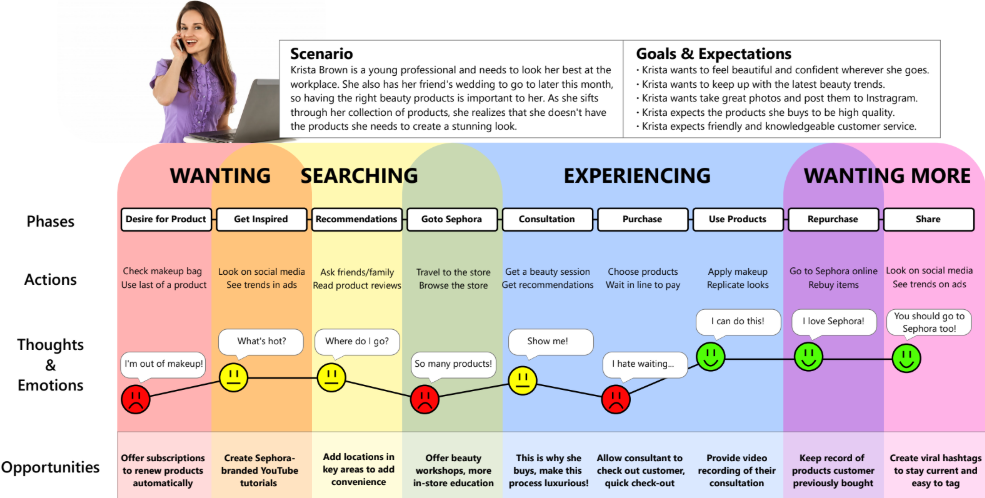
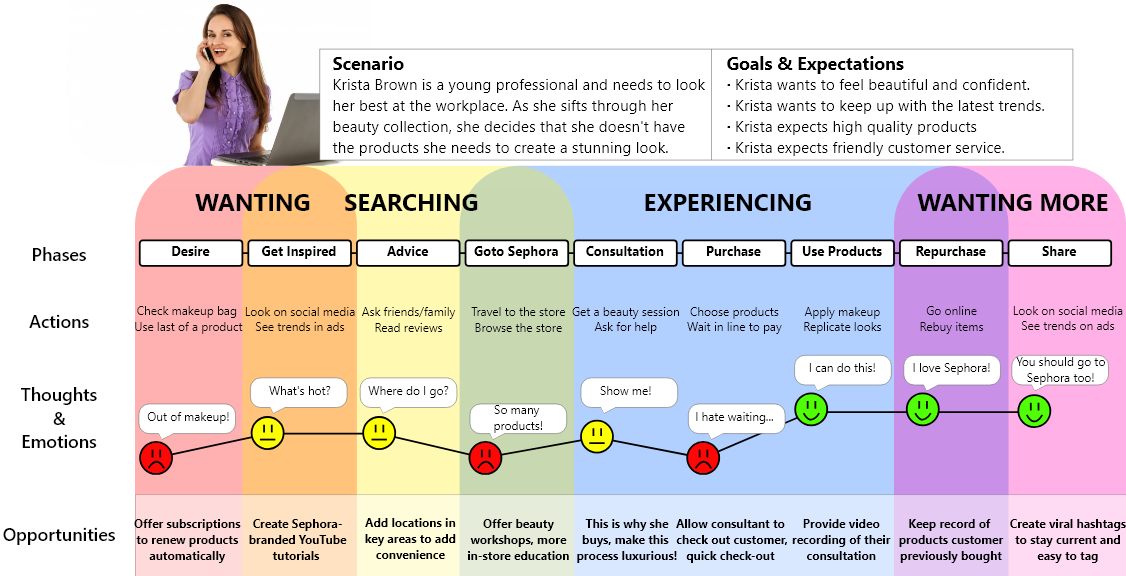
navbar border, sephora map
added bottom navb border, updated sephora emp map.

diff --git a/adamsimpsondesign.css b/adamsimpsondesign.css
@@ -1,6 +1,8 @@
 .navbar {
     font-family: 'Comfortaa', cursive;
     background-color: white;
+    border-bottom: solid;
+    border-bottom-color: darkgrey;
 }
 
 .jumbotron {
